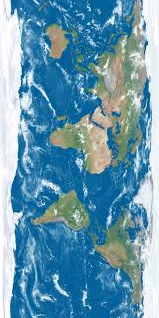
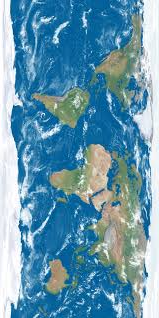
Adição da textura da terra e correção do dt

diff --git a/scenes/3D_graphics/SolarSystem/solarsystem.cpp b/scenes/3D_graphics/SolarSystem/solarsystem.cpp
@@ -58,7 +58,8 @@ void scene_model::setup_data(std::map<std::string,GLuint>& , scene_structure& sc
     // Earth
     earth = create_planet(e_radius, e_mass, e_p, e_v, e_inclination, e_force, e_orbitradius);
     earth.drawable = mesh_primitive_sphere(1.0f, {0,0,0}, 20, 40);
-    earth.drawable.uniform.color = {0.0f, 0.0f, 1.0f};
+    //earth.drawable.uniform.color = {0.0f, 0.0f, 1.0f};
+    earth.drawable.uniform.shading = {1,0,0};
 
     // Textures
     // Universe
@@ -67,7 +68,7 @@ void scene_model::setup_data(std::map<std::string,GLuint>& , scene_structure& sc
     // Sun
 
     // Earth
-
+    texture_earth_id = create_texture_gpu( image_load_png("scenes/3D_graphics/SolarSystem/assets/terra3.png"));
 }
 
 
@@ -76,8 +77,15 @@ void scene_model::setup_data(std::map<std::string,GLuint>& , scene_structure& sc
     It is used to compute time-varying argument and perform data data drawing */
 void scene_model::frame_draw(std::map<std::string,GLuint>& shaders, scene_structure& scene, gui_structure&)
 {
-    const float dt = timer.update();
-    set_gui();
+ //   const float dt = timer.update();
+    timer.update();
+//    std::cout << "dt = " << dt << std::endl;
+    set_gui(timer);
+
+    // Simulation time step (dt)
+    float dt = timer.scale*0.01f;
+    std::cout << "dt = " << dt << std::endl;
+
     glEnable( GL_POLYGON_OFFSET_FILL ); // avoids z-fighting when displaying wireframe
 
     // *** Earth data update *** //
@@ -90,7 +98,7 @@ void scene_model::frame_draw(std::map<std::string,GLuint>& shaders, scene_struct
     v = v + dt* F/earth.mass;
     p = p + dt*v;
 
-    std::cout << "force = " << earth.force << std::endl;
+//    std::cout << "force = " << earth.force << std::endl;
     earth.drawable.uniform.transform.translation = p;
     earth.force = 2000000* G * sun.mass * earth.mass/(norm(p)*norm(p)) * -1.0f *normalize(p);
 
@@ -109,8 +117,13 @@ void scene_model::frame_draw(std::map<std::string,GLuint>& shaders, scene_struct
 
     // Sun
     draw(sun.drawable, scene.camera, shaders["mesh"]);
+
     // Earth
+    glBindTexture(GL_TEXTURE_2D, texture_earth_id);
+    glTexParameteri(GL_TEXTURE_2D, GL_TEXTURE_WRAP_S, GL_MIRRORED_REPEAT);
+    glTexParameteri(GL_TEXTURE_2D, GL_TEXTURE_WRAP_T, GL_MIRRORED_REPEAT);
     draw(earth.drawable, scene.camera, shaders["mesh"]);
+    glBindTexture(GL_TEXTURE_2D, scene.texture_white);
 
 //    earth.force = 2000000* G * sun.mass * earth.mass/(norm(p)*norm(p)) * -1.0f *normalize(p);
 
@@ -122,8 +135,6 @@ void scene_model::frame_draw(std::map<std::string,GLuint>& shaders, scene_struct
     }
     // ************************* //
 }
-
-
 
 
 
@@ -430,7 +441,7 @@ mesh create_universe(float dimension){
     return sky;
 }
 
- void scene_model::set_gui()
+ void scene_model::set_gui(timer_basic& timer)
  {
 //     ImGui::SliderFloat("Time", &timer.t, timer.t_min, timer.t_max);
 //     ImGui::SliderFloat("Time scale", &timer.scale, 0.1f, 3.0f);

diff --git a/scenes/3D_graphics/SolarSystem/solarsystem.hpp b/scenes/3D_graphics/SolarSystem/solarsystem.hpp
@@ -62,7 +62,7 @@ struct scene_model : scene_base
 
 
 
-    void set_gui();
+    void set_gui(vcl::timer_basic& timer);
 
     // visual representation of a surface
     gui_scene_structure gui_scene;
